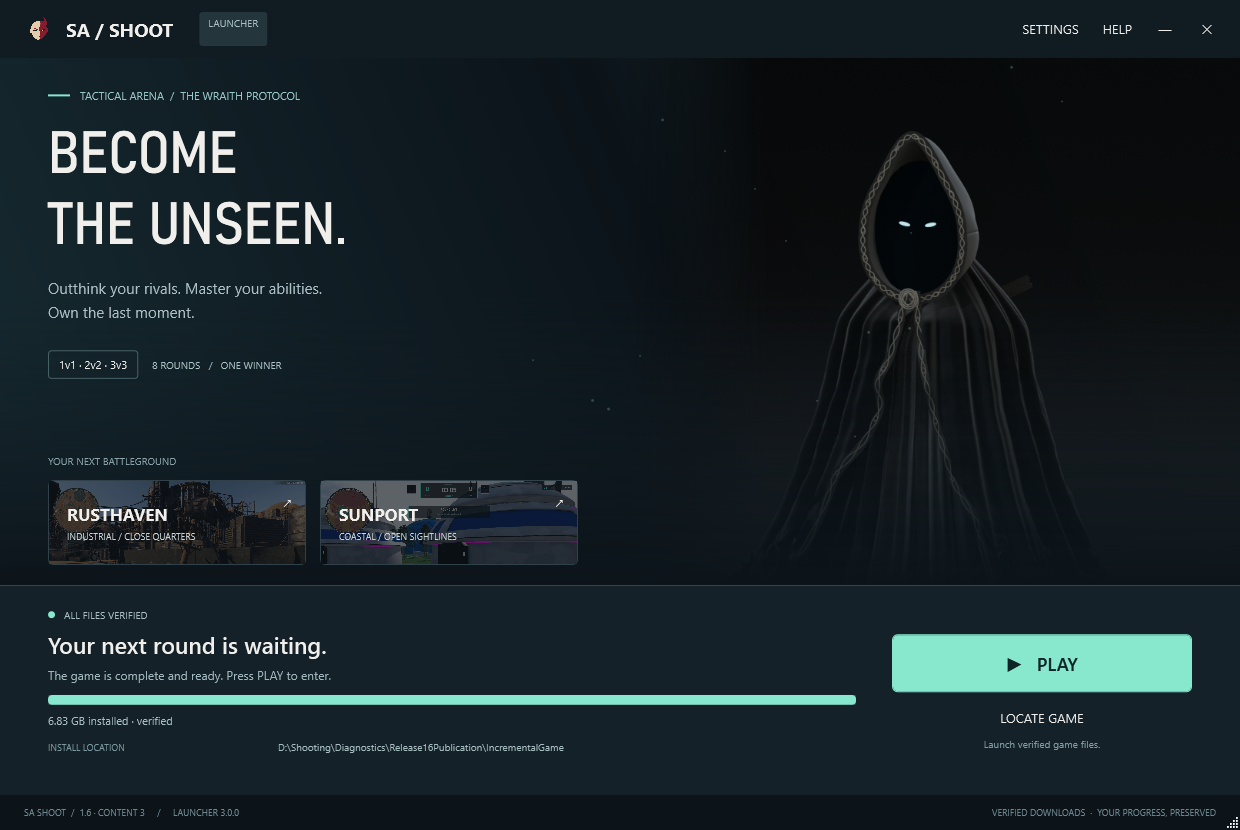
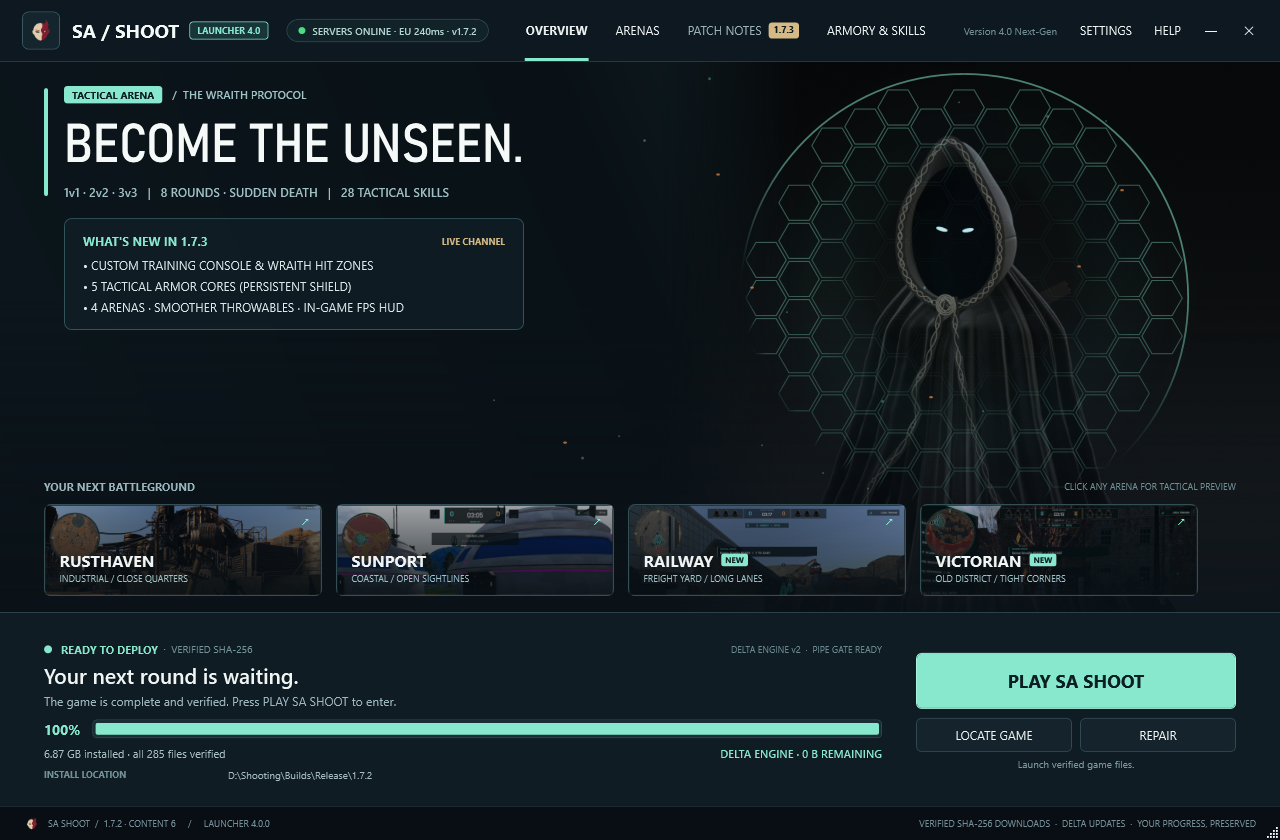
Publish SA SHOOT Launcher 4.0 self-update channel and preview

diff --git a/README.md b/README.md
@@ -8,8 +8,8 @@
 <p align="center"><strong>Become the unseen.</strong><br>Choose your squad. Master your abilities. Survive the closing zone.</p>
 
 <p align="center">
-  <a href="https://github.com/salah-del/sa-shoot-releases/releases/download/v1.6/SA-SHOOT-Setup.exe"><img src="assets/download-windows.svg" alt="Download SA SHOOT Launcher 3.0 for Windows — 70.8 MB" width="430"></a><br>
-  <a href="https://github.com/salah-del/sa-shoot-releases/releases/download/v1.6/SA-SHOOT-Setup.exe"><strong>Download for Windows</strong></a>
+  <a href="https://github.com/salah-del/sa-shoot-releases/releases/download/launcher-v4.0/SA-SHOOT-Setup.exe"><img src="assets/download-windows.svg" alt="Download SA SHOOT Launcher 4.0 for Windows — 70.8 MB" width="430"></a><br>
+  <a href="https://github.com/salah-del/sa-shoot-releases/releases/download/launcher-v4.0/SA-SHOOT-Setup.exe"><strong>Download for Windows</strong></a>
   &nbsp; · &nbsp; <a href="#inside-sa-shoot">Screenshots</a>
   &nbsp; · &nbsp; <a href="#start-playing">How to play</a>
   &nbsp; · &nbsp; <a href="#العربية">العربية</a>
@@ -49,9 +49,9 @@
 
 ### Download. Update. Play.
 
-![SA SHOOT Launcher 3.0 with verified installation, arena previews and the Play button.](assets/launcher.png)
+![SA SHOOT Launcher 4.0 with verified installation, arena previews and the Play button.](assets/launcher.png)
 
-<p align="center"><sub>Launcher 3.0 preview · Game 1.6 shown in this capture. New installations receive the current game version.</sub></p>
+<p align="center"><sub>Launcher 4.0 preview · Game 1.6 shown in this capture. New installations receive the current game version.</sub></p>
 
 Your launcher keeps the game ready. Download once, keep your installation, and get updates without reinstalling everything.
 
@@ -81,7 +81,7 @@ Your launcher keeps the game ready. Download once, keep your installation, and g
 
 - **Interrupted download?** Use **RESUME** or **RETRY**. Completed, verified downloads are reused.
 - **Missing or damaged files?** Open **SETTINGS → VERIFY / REPAIR GAME FILES**.
-- **Using Launcher 2.0?** Open Launcher 3.0 once and choose **LOCATE GAME**. Keep your game folder. Future launcher updates appear inside the launcher.
+- **Using Launcher 2.0?** Open Launcher 4.0 once and choose **LOCATE GAME**. Keep your game folder. Future launcher updates appear inside the launcher.
 - **Windows shows an unfamiliar publisher?** This public-test launcher is not code-signed yet. Use the download button on this page; no security-setting changes are required.
 - **Do I need other files?** No. Download the launcher using the button above; it handles game installation and updates.
 
@@ -106,7 +106,7 @@ SA SHOOT is an early public test. Some players may encounter connection issues. 
 
 اختار **1 ضد 1، أو 2 ضد 2، أو 3 ضد 3**. جهّز مهاراتك، العب مع أصحابك، وخلّي بالك من الزون وهي بتقفل.
 
-**الإصدار الحالي: 1.7.3 — اللانشر: 3.0.**
+**الإصدار الحالي: 1.7.3 — اللانشر: 4.0.**
 
 1. نزّل اللانشر من زر **Download for Windows** فوق.
 2. لو أول مرة، اختار فولدر واضغط **DOWNLOAD**.
@@ -123,5 +123,5 @@ SA SHOOT is an early public test. Some players may encounter connection issues. 
   <img src="assets/game-icon.png" alt="SA SHOOT emblem" width="48"><br>
   <strong>SA / SHOOT</strong><br>
   <sub>Your squad. Your round.</sub><br><br>
-  <a href="https://github.com/salah-del/sa-shoot-releases/releases/download/v1.6/SA-SHOOT-Setup.exe"><strong>↓ DOWNLOAD FOR WINDOWS</strong></a>
+  <a href="https://github.com/salah-del/sa-shoot-releases/releases/download/launcher-v4.0/SA-SHOOT-Setup.exe"><strong>↓ DOWNLOAD FOR WINDOWS</strong></a>
 </p>
